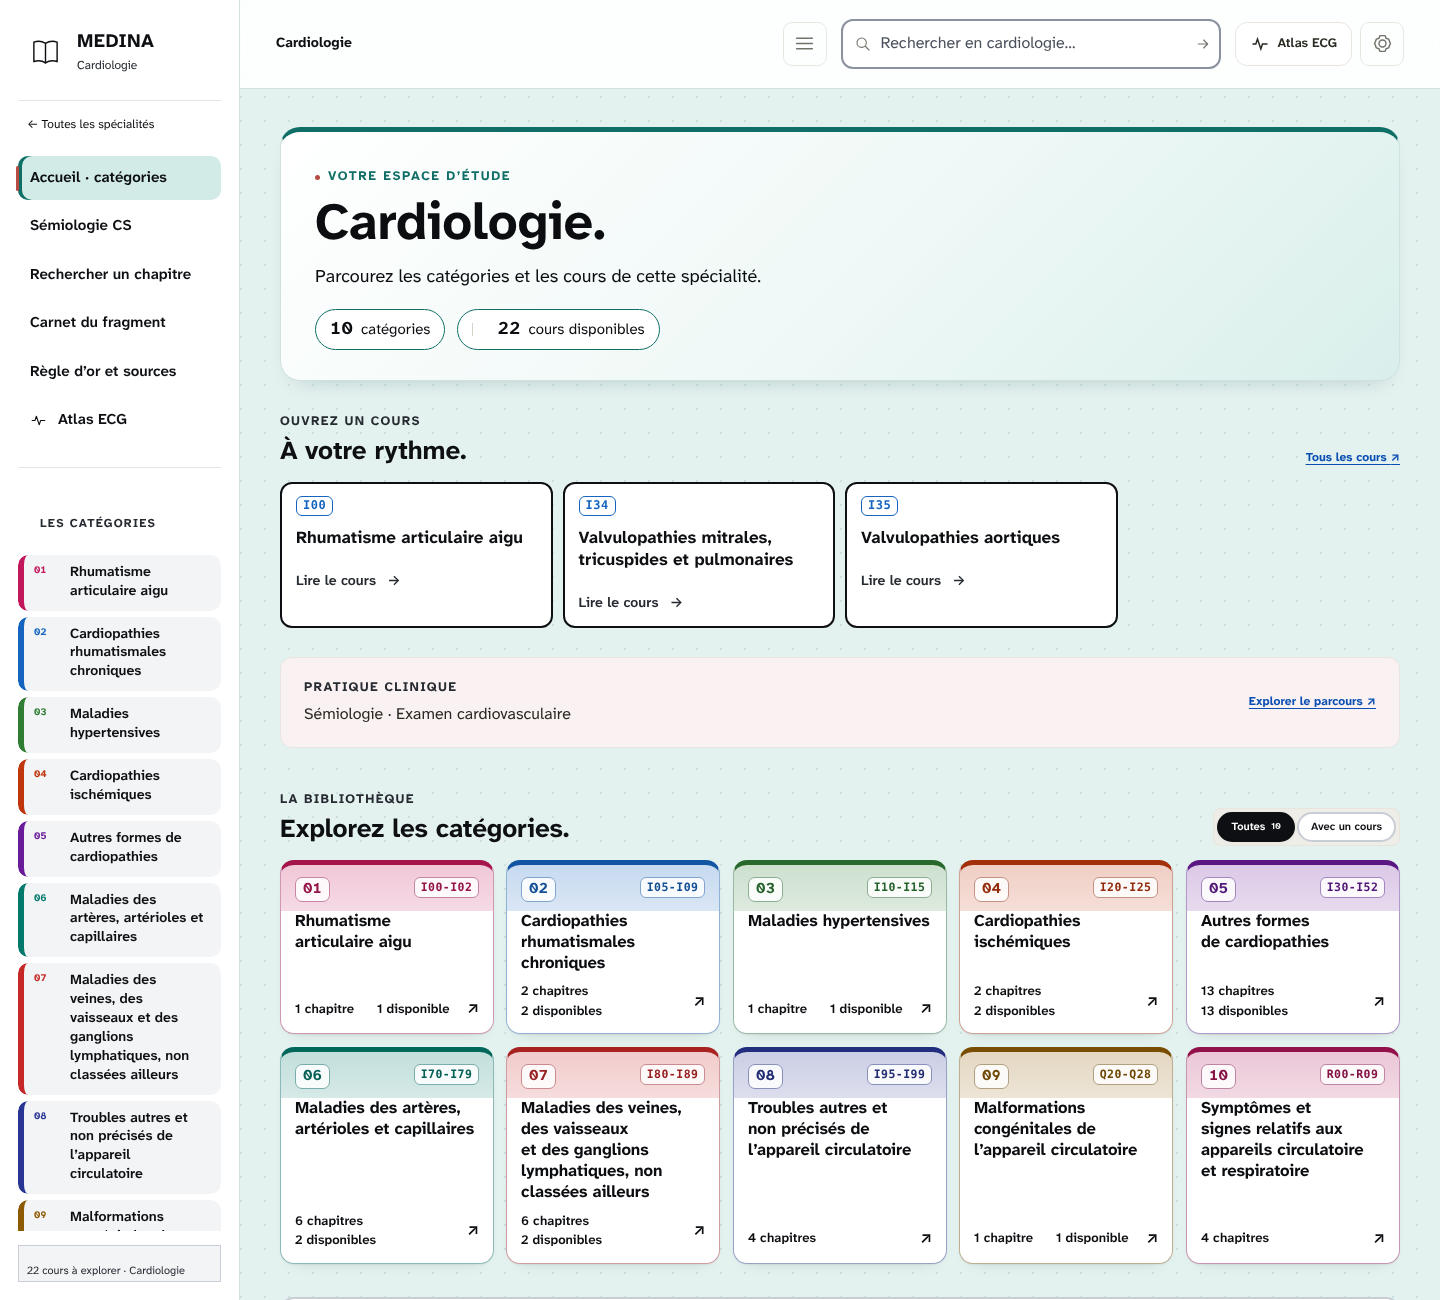
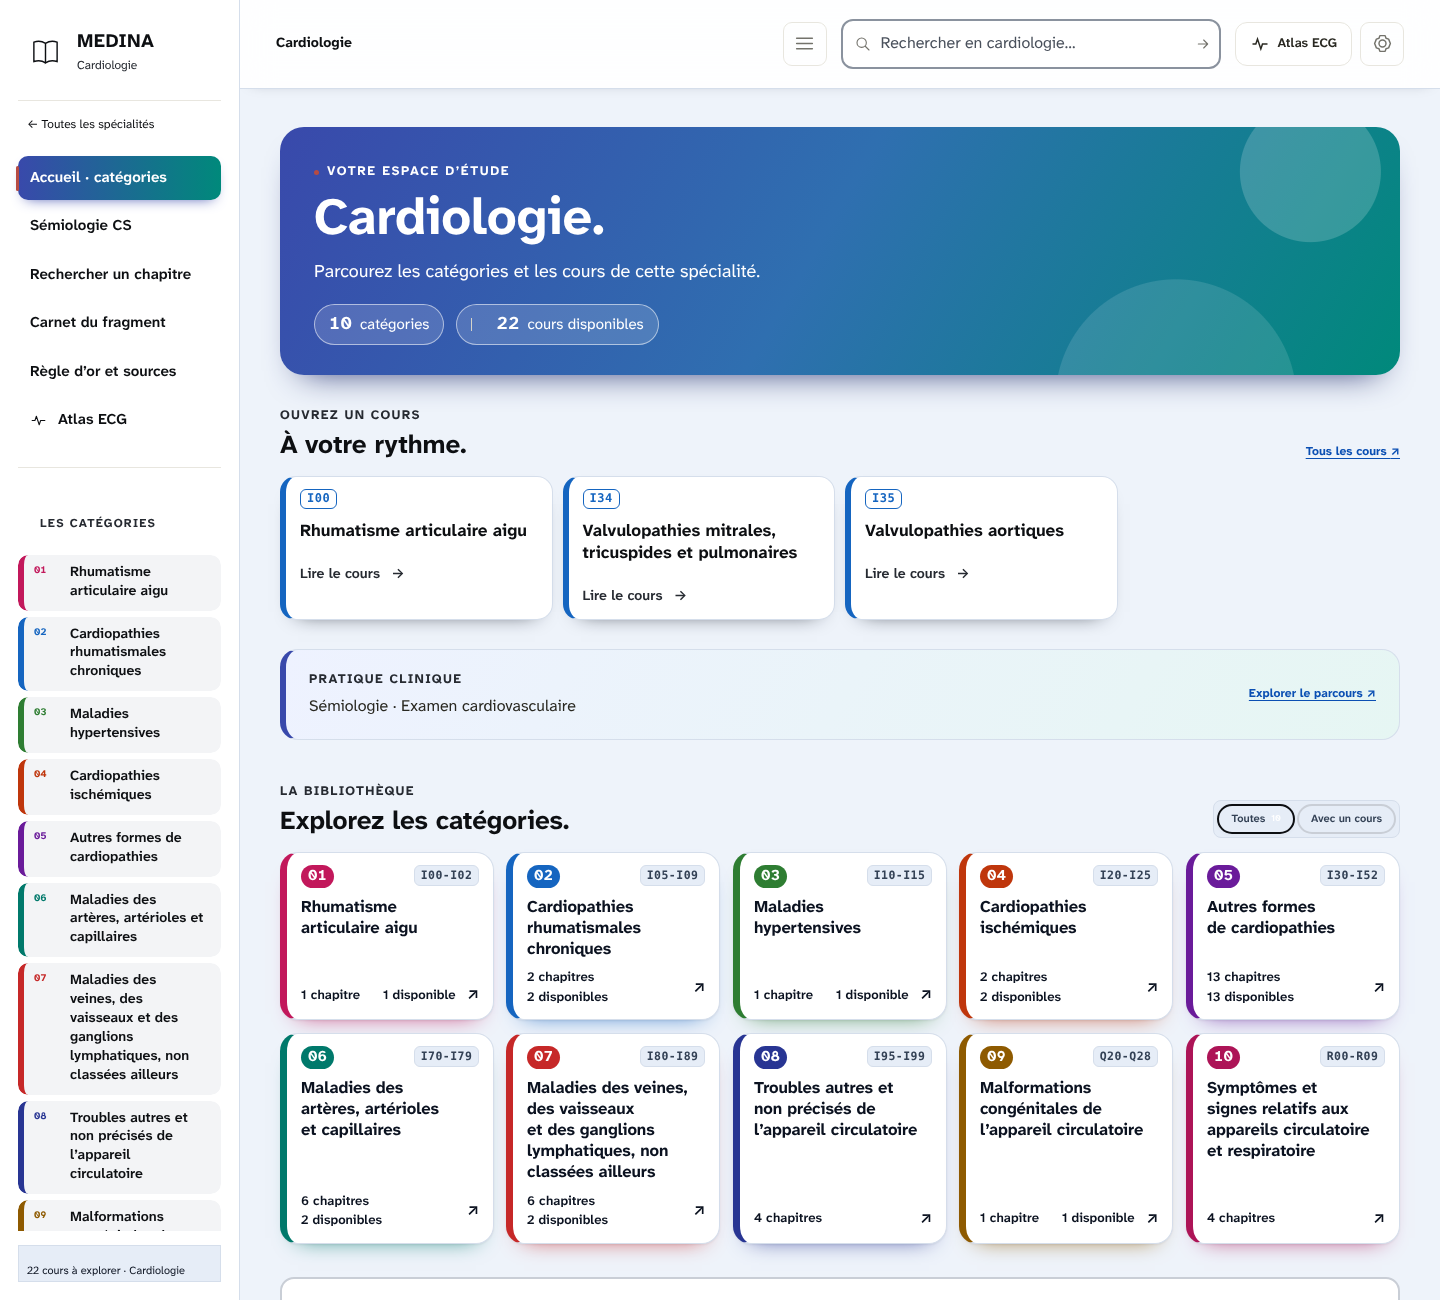
Style « Atlas froid » : changement radical des 22 frontends et de l'accueil, aucun fond ivoire ou beige
Claude-Session: https://claude.ai/code/session_01CX26xCCUNUhn6KxRdoHqTc

diff --git a/engine/atlas_v3.css b/engine/atlas_v3.css
@@ -1,40 +1,50 @@
-/* MEDINA — thème clair commun aux 22 frontends (09.10.2026, demande de Vial) :
-   fond bleu-vert pâle, surfaces blanches, couleur de catégorie (--cat) atténuée en bandeau,
-   titres presque noirs à contraste élevé ; même langage visuel que l'accueil. Se superpose à atlas_v2.css. */
-html[data-medina-fragment]{--y-bg:#e3f1ef;--y-surface:#ffffff;--y-ink:#0b0d10;--y-ink2:#3a414b;--y-line:#cfe2df;--y-brand:#0f6e66;--y-brand-soft:#d3ebe7}
-html[data-medina-fragment][data-medina-fragment][data-medina-fragment] body{background-color:var(--y-bg)!important;
- background-image:radial-gradient(circle at 1px 1px,#0f5f5a1c 1px,transparent 1.3px)!important;background-size:24px 24px!important}
-html[data-medina-fragment][data-medina-fragment][data-medina-fragment] body .topbar{background:#ffffffe6!important;border-bottom:1px solid var(--y-line)!important}
-html[data-medina-fragment][data-medina-fragment][data-medina-fragment] body .sidebar{border-right:1px solid var(--y-line)!important}
-html[data-medina-fragment][data-medina-fragment][data-medina-fragment] body .sidebar .nav-main a.active{background:var(--y-brand-soft)!important;color:var(--y-ink)!important;box-shadow:inset 4px 0 0 var(--y-brand)!important}
+/* MEDINA — style « Atlas froid » des 22 frontends (09.10.2026, demande de Vial : changement radical,
+   fonds ivoire, beige et apparentés interdits). Fond bleu ardoise froid, surfaces blanches,
+   couvertures en dégradé indigo-sarcelle, cartes à rail coloré et pastille pleine (--cat). */
+html[data-medina-fragment]{--z-bg:#eef3fa;--z-surface:#ffffff;--z-soft:#e6edf7;--z-ink:#0b1220;--z-ink2:#334155;--z-line:#d5deeb;
+ --z-a:#3949ab;--z-b:#00897b;--z-glow:#3949ab1f}
+html[data-medina-fragment][data-medina-fragment][data-medina-fragment] body{background:var(--z-bg)!important;background-image:none!important}
+html[data-medina-fragment][data-medina-fragment][data-medina-fragment] body :is(main,.main,.content,.app-main,.page,.view){background:transparent!important;background-image:none!important}
+html[data-medina-fragment][data-medina-fragment][data-medina-fragment] body .topbar{background:#ffffffeb!important;border-bottom:1px solid var(--z-line)!important;box-shadow:0 4px 14px -12px #0b122066!important}
+html[data-medina-fragment][data-medina-fragment][data-medina-fragment] body .sidebar{background:var(--z-surface)!important;border-right:1px solid var(--z-line)!important}
+html[data-medina-fragment][data-medina-fragment][data-medina-fragment] body .sidebar .nav-main a.active{background:linear-gradient(90deg,var(--z-a),var(--z-b))!important;color:#fff!important;box-shadow:0 6px 14px -8px var(--z-a)!important}
+html[data-medina-fragment][data-medina-fragment][data-medina-fragment] body .sidebar .nav-main a.active *{color:#fff!important}
+html[data-medina-fragment][data-medina-fragment][data-medina-fragment] body :is(.badge,.mcg-filters,.sidebar-note){background:var(--z-soft)!important;border-color:var(--z-line)!important;color:var(--z-ink)!important}
+html[data-medina-fragment][data-medina-fragment][data-medina-fragment] body .mcg-filters :is(button,a){background:transparent!important;color:var(--z-ink2)!important}
+html[data-medina-fragment][data-medina-fragment][data-medina-fragment] body .mcg-filters :is(button,a):is([aria-pressed="true"],.active,[aria-selected="true"]){background:var(--z-a)!important;color:#fff!important}
 
-/* Couverture du fragment : claire, bandeau teinté, texte foncé. */
-html[data-medina-fragment][data-medina-fragment][data-medina-fragment] body .mcg-cover{background:linear-gradient(135deg,#ffffff 0,#eef8f6 55%,#d9efeb 100%)!important;
- border:1px solid var(--y-line)!important;border-top:5px solid var(--y-brand)!important;box-shadow:0 10px 24px -18px #0b3b3666!important}
+/* Couverture : dégradé indigo → sarcelle, texte blanc, cercles décoratifs. */
+html[data-medina-fragment][data-medina-fragment][data-medina-fragment] body .mcg-cover{position:relative;overflow:hidden;
+ background:radial-gradient(circle at 92% 18%,#ffffff2e 0 70px,transparent 71px),radial-gradient(circle at 80% 110%,#ffffff1f 0 120px,transparent 121px),linear-gradient(120deg,var(--z-a) 0,#2f6fb0 48%,var(--z-b) 100%)!important;
+ border:0!important;border-radius:24px!important;box-shadow:0 18px 34px -22px #1e2a6b!important}
 html[data-medina-fragment][data-medina-fragment][data-medina-fragment] body .mcg-cover *,
-html[data-medina-fragment][data-medina-fragment][data-medina-fragment] body :is(.mcg-cover h1,.mcg-cover p,.mcg-cover .mcg-counts span){color:var(--y-ink)!important}
-html[data-medina-fragment][data-medina-fragment][data-medina-fragment] body .mcg-cover .mcg-eyebrow{color:var(--y-brand)!important}
-html[data-medina-fragment][data-medina-fragment][data-medina-fragment] body .mcg-cover .mcg-counts span{background:#ffffff!important;border:1.5px solid var(--y-brand)!important}
+html[data-medina-fragment][data-medina-fragment][data-medina-fragment] body :is(.mcg-cover h1,.mcg-cover p,.mcg-cover .mcg-eyebrow,.mcg-cover .mcg-counts span){color:#fff!important}
+html[data-medina-fragment][data-medina-fragment][data-medina-fragment] body .mcg-cover .mcg-counts span{background:#ffffff26!important;border:1.5px solid #ffffff8c!important}
 
-/* Cartes de catégorie : blanches, bandeau à la couleur atténuée de la catégorie, titre foncé. */
-html[data-medina-fragment][data-medina-fragment][data-medina-fragment] body .mcg-category-card{background-color:#ffffff!important;
- background-image:linear-gradient(180deg,color-mix(in srgb,var(--cat) 24%,#fff) 0,color-mix(in srgb,var(--cat) 16%,#fff) 46px,#fff 46px)!important;
- border:1px solid color-mix(in srgb,var(--cat) 35%,#d6dbe1)!important;border-top:5px solid color-mix(in srgb,var(--cat) 85%,#000)!important;
- box-shadow:0 1px 2px #0b0d100f,0 8px 16px -14px #0b0d1040!important}
-html[data-medina-fragment][data-medina-fragment][data-medina-fragment] body .mcg-category-card:hover{box-shadow:0 12px 22px -14px #0b0d1066!important}
+/* Cartes de catégorie : blanches, rail gauche plein, pastille numérotée pleine, titre foncé. */
+html[data-medina-fragment][data-medina-fragment][data-medina-fragment] body .mcg-category-card{background:var(--z-surface)!important;background-image:none!important;
+ border:1px solid var(--z-line)!important;border-left:7px solid var(--cat)!important;border-radius:18px!important;
+ box-shadow:0 1px 2px #0b12200f,0 12px 22px -18px var(--cat)!important}
+html[data-medina-fragment][data-medina-fragment][data-medina-fragment] body .mcg-category-card:hover{transform:translateY(-3px);box-shadow:0 16px 26px -16px var(--cat)!important}
 html[data-medina-fragment][data-medina-fragment][data-medina-fragment] body .mcg-category-card *,
-html[data-medina-fragment][data-medina-fragment][data-medina-fragment] body .mcg-category-card h2{color:var(--y-ink)!important}
-html[data-medina-fragment][data-medina-fragment][data-medina-fragment] body .mcg-category-card :is(.mcg-category-number,.mcg-code){background:#ffffffd9!important;
- border:1px solid color-mix(in srgb,var(--cat) 40%,#c9ced6)!important;color:color-mix(in srgb,var(--cat) 75%,#0b0d10)!important}
+html[data-medina-fragment][data-medina-fragment][data-medina-fragment] body .mcg-category-card h2{color:var(--z-ink)!important}
+html[data-medina-fragment][data-medina-fragment][data-medina-fragment] body .mcg-category-card .mcg-category-number{background:var(--cat)!important;color:#fff!important;border-radius:999px!important;min-width:30px;text-align:center;border:0!important}
+html[data-medina-fragment][data-medina-fragment][data-medina-fragment] body .mcg-category-card .mcg-code{background:var(--z-soft)!important;border:1px solid var(--z-line)!important;color:var(--z-ink2)!important}
 
-/* En-tête d'une catégorie ouverte : même traitement clair. */
-html[data-medina-fragment][data-medina-fragment][data-medina-fragment] body .mcg-block-heading{background:linear-gradient(180deg,color-mix(in srgb,var(--cat,#0f6e66) 20%,#fff),#fff)!important;
- border:1px solid color-mix(in srgb,var(--cat,#0f6e66) 35%,#d6dbe1)!important;border-top:5px solid color-mix(in srgb,var(--cat,#0f6e66) 85%,#000)!important;box-shadow:none!important}
+/* En-tête de catégorie ouverte : bandeau plein à la couleur de la catégorie. */
+html[data-medina-fragment][data-medina-fragment][data-medina-fragment] body .mcg-block-heading{background:linear-gradient(120deg,var(--cat,#3949ab),color-mix(in srgb,var(--cat,#3949ab) 70%,#00897b))!important;
+ border:0!important;border-radius:20px!important;box-shadow:0 14px 26px -20px var(--cat,#3949ab)!important}
 html[data-medina-fragment][data-medina-fragment][data-medina-fragment] body .mcg-block-heading *,
-html[data-medina-fragment][data-medina-fragment][data-medina-fragment] body :is(.mcg-block-heading h2,.mcg-block-heading .mcg-eyebrow){color:var(--y-ink)!important}
-html[data-medina-fragment][data-medina-fragment][data-medina-fragment] body .mcg-block-heading .mcg-section-count{background:#fff!important;border:1px solid color-mix(in srgb,var(--cat,#0f6e66) 40%,#c9ced6)!important;color:var(--y-ink)!important}
-html[data-medina-fragment][data-medina-fragment][data-medina-fragment] body :is(main,.main,.content,.app-main){background:transparent!important}
-html[data-medina-fragment][data-medina-fragment][data-medina-fragment] body .mcg-sidebar-block[aria-current],
-html[data-medina-fragment][data-medina-fragment][data-medina-fragment] body .mcg-sidebar-block.active,
-html[data-medina-fragment][data-medina-fragment][data-medina-fragment] body .mcg-sidebar-block.is-active{background:color-mix(in srgb,var(--cat,#0f6e66) 18%,#fff)!important}
-html[data-medina-fragment][data-medina-fragment][data-medina-fragment] body :is(.mcg-sidebar-block[aria-current],.mcg-sidebar-block.active,.mcg-sidebar-block.is-active) *{color:var(--y-ink)!important}
+html[data-medina-fragment][data-medina-fragment][data-medina-fragment] body :is(.mcg-block-heading h2,.mcg-block-heading .mcg-eyebrow){color:#fff!important}
+html[data-medina-fragment][data-medina-fragment][data-medina-fragment] body .mcg-block-heading .mcg-section-count{background:#ffffff2e!important;border:1px solid #ffffff99!important;color:#fff!important}
+
+/* Chapitres et cours mis en avant : cartes blanches à rail coloré. */
+html[data-medina-fragment][data-medina-fragment][data-medina-fragment] body :is(.mcg-lesson,.mcg-featured-lesson){background:var(--z-surface)!important;border:1px solid var(--z-line)!important;border-left:6px solid var(--cat,#3949ab)!important;border-radius:16px!important;box-shadow:0 10px 20px -18px #0b1220!important}
+html[data-medina-fragment][data-medina-fragment][data-medina-fragment] body .mcg-sidebar-block>a.active,
+html[data-medina-fragment][data-medina-fragment][data-medina-fragment] body .mcg-sidebar-block[aria-current]{background:color-mix(in srgb,var(--cat,#3949ab) 16%,#fff)!important}
+html[data-medina-fragment][data-medina-fragment][data-medina-fragment] body :is(.mcg-sidebar-block>a.active,.mcg-sidebar-block[aria-current]) *{color:var(--z-ink)!important}
+/* Encadrés des cours : fonds froids à la place des tons chauds. */
+html[data-medina-fragment][data-medina-fragment][data-medina-fragment] body .mc-trap{background:#eef2ff!important}
+html[data-medina-fragment][data-medina-fragment][data-medina-fragment] body .mc-alert{background:#fdeef2!important}
+html[data-medina-fragment][data-medina-fragment][data-medina-fragment] body :is(.s01-cs-gateway,.cs-gateway){background:linear-gradient(120deg,#eef2ff,#e6f6f3)!important;border:1px solid var(--z-line)!important;border-left:6px solid var(--z-a)!important;border-radius:18px!important}
+html[data-medina-fragment][data-medina-fragment][data-medina-fragment] body .sidebar .mcg-sidebar-block>a:not(.active){background:#f4f7fc!important}

diff --git a/engine/portal_v3.css b/engine/portal_v3.css
@@ -49,3 +49,35 @@ html body .legend-note{margin:0 0 18px;color:var(--s-mute)!important;font-size:1
 html body .hero-meta span{background:#ffffff!important;border:2px solid #0f6e66!important}
 html body :is(.eyebrow,.section-kicker){color:#0f6e66!important}
 html body .hero h1 em{color:#0f6e66!important}
+/* Style « Atlas froid » (09.10.2026) : changement radical, aucun fond ivoire ou beige. */
+html body{background:#eef3fa!important;background-image:none!important}
+html body :is(.brand-symbol,.art-seal,.empty,.hero-art .reading-page){background:#ffffff!important;border-color:#d5deeb!important}
+html body .hero-art .art-lines i{background:#d5deeb!important}
+html body .hero-art .art-subjects span{background:#e6edf7!important;border-color:#d5deeb!important;color:#334155!important}
+html body .hero-art .art-halo{display:none!important}
+html body .hero h1 em,html body :is(.eyebrow,.section-kicker){color:#3949ab!important}
+html body .hero-meta span{border-color:#3949ab!important}
+html body .specialty-card{background:#ffffff!important;background-image:none!important;border:1px solid #d5deeb!important;border-left:7px solid var(--v)!important;border-top:1px solid #d5deeb!important;border-radius:18px!important;box-shadow:0 1px 2px #0b12200f,0 12px 22px -18px var(--v)!important}
+html body .specialty-card .card-symbol{background:var(--v)!important;border:0!important;color:#fff!important;border-radius:999px!important}
+html body .specialty-card .card-symbol *{color:#fff!important}
+html body .specialty-card h3{margin-top:12px!important}
+html body .overview{background:linear-gradient(120deg,#3949ab,#2f6fb0 48%,#00897b)!important;border:0!important;border-radius:22px!important}
+html body .overview::before{opacity:.0}
+html body .overview-item{background:#ffffffeb!important;border:0!important}
+html body .motifs li{background:#ffffff26!important;border:1px solid #ffffff8c!important;color:#fff!important}
+html body .motifs li svg{color:#fff!important}
+html body .gauge-fluid{background:linear-gradient(180deg,#5c6bc0 0,#3949ab 100%)!important}
+/* Illustration de l'accueil : composition abstraite (orbe, anneaux, satellites), sans papier ivoire. */
+html body .hero-art{position:relative;min-height:380px;display:block!important}
+html body .hero-art>*{display:none!important}
+html body .hero-art::before{content:"";position:absolute;inset:8% 10% 8% 14%;border-radius:50%;
+ background:radial-gradient(circle at 34% 30%,#ffffff 0 5%,#dfe4ff 11%,#7986cb 30%,#3949ab 52%,#1e5f8f 70%,#00897b 88%);
+ box-shadow:0 40px 70px -30px #1e2a6bcc,inset -18px -22px 40px #00000033,inset 14px 12px 30px #ffffff55}
+html body .hero-art::after{content:"";position:absolute;inset:-2% 0 -2% 4%;border-radius:50%;
+ border:1.5px solid #3949ab55;transform:rotate(-18deg) scaleY(.42);
+ box-shadow:0 0 0 22px #00897b0f,0 0 0 23.5px #00897b40,0 0 0 52px #b39ddb10,0 0 0 53.5px #9575cd40}
+html body .hero{position:relative}
+html body .hero::after{content:"";position:absolute;right:6%;top:12%;width:14px;height:14px;border-radius:50%;background:#00897b;
+ box-shadow:-210px 260px 0 -3px #7e57c2,-40px 300px 0 -4px #3949ab,-330px 40px 0 -5px #26a69a,-120px -10px 0 -6px #5c6bc0;pointer-events:none}
+html body .overview{grid-template-columns:repeat(3,minmax(0,1fr))!important}
+@media (max-width:760px){html body .overview{grid-template-columns:1fr!important}html body .hero-art{min-height:240px}html body .hero::after{display:none}}
